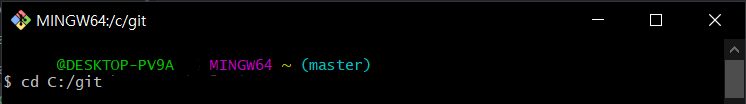
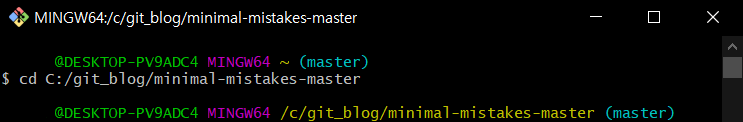
깃 배쉬 포스팅

diff --git a/_posts/Ect/2021-02-08-git-bash.md b/_posts/Ect/2021-02-08-git-bash.md
@@ -38,15 +38,17 @@ git config --global user.email "your_email@example.com"
 
 프로젝트 폴더를 새로 생성하거나, 이미 에디터를 통해 작업중이던 코드가 있다면 그 코드가 위치한 폴더를 지정하면 된다.
 
+나는 git-blog 폴더 안에 클론한 소스코드를 저장했기 때문에 ```git-blog/mimimal-mistakes-master```로 이동했다.
+
 ```
-$ cd C:/git
+$ cd C:/git-blog/mimimal-mistakes-master
 ```
 먼저 cd 를 통해 지정하고자 하는 폴더로 이동한다.
 
 ![cd](/assets/image/git-init.PNG)
 
-*주의!*
-역슬래쉬(\)는 인식하지 못하므로 ```/```로 변경해 주어야 한다.
+*<mark style='background-color: #f5f0ff'>주의!</mark>*<br>
+역슬래쉬```\```는 인식하지 못하므로 ```/```로 변경해 주어야 한다.
 
 git remote add origin 리포지 주소
 git remote -v >> 주소 확인
